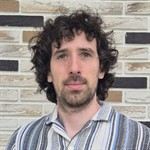
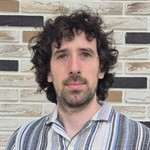
Reduce initial page load work
Use ResizeObserver for header offset updates and avoid repeated scroll class writes.

Delay non-critical neural canvas and analytics work further past initial render.

Recompress the default profile thumbnail.

diff --git a/assets/js/site.js b/assets/js/site.js
@@ -29,6 +29,9 @@
 
   let contactScrollFrame = 0;
   let resizeFrame = 0;
+  let headerHeight = 76;
+  let hasScrolled = false;
+  let scrollButtonVisible = false;
 
   function readPreference(key, fallback) {
     try {
@@ -138,15 +141,39 @@
     return designRootSupports(designRoot, root.getAttribute('data-style') || 'default');
   }
 
-  function setHeaderOffset() {
-    if (!header) return;
-    root.style.setProperty('--header-height', `${header.offsetHeight}px`);
+  function setHeaderHeight(height) {
+    const nextHeight = Math.ceil(height);
+    if (!nextHeight || nextHeight === headerHeight) return;
+    headerHeight = nextHeight;
+    root.style.setProperty('--header-height', `${headerHeight}px`);
   }
 
-  function scheduleHeaderOffset() {
+  function measureHeaderOffset() {
+    if (!header) return;
+    setHeaderHeight(header.getBoundingClientRect().height);
+  }
+
+  function initHeaderOffset() {
+    if (!header) return;
+
+    if ('ResizeObserver' in window) {
+      const observer = new ResizeObserver((entries) => {
+        const entry = entries[0];
+        const borderBox = entry && entry.borderBoxSize;
+        const size = Array.isArray(borderBox) ? borderBox[0] : borderBox;
+        const observedHeight = size && size.blockSize ? size.blockSize : entry.contentRect.height;
+        setHeaderHeight(observedHeight);
+      });
+      observer.observe(header);
+      return;
+    }
+
+    window.addEventListener('load', measureHeaderOffset, { once: true });
+  }
+
+  function scheduleContactScroll() {
     if (resizeFrame) return;
     resizeFrame = window.requestAnimationFrame(() => {
-      setHeaderOffset();
       scrollToContactHash('auto');
       resizeFrame = 0;
     });
@@ -166,8 +193,7 @@
     window.cancelAnimationFrame(contactScrollFrame);
     contactScrollFrame = window.requestAnimationFrame(() => {
       contactScrollFrame = window.requestAnimationFrame(() => {
-        const headerOffset = header ? header.offsetHeight : 0;
-        const targetTop = target.getBoundingClientRect().top + window.scrollY - headerOffset - 16;
+        const targetTop = target.getBoundingClientRect().top + window.scrollY - headerHeight - 16;
         window.scrollTo({
           top: Math.max(0, targetTop),
           behavior: reduceMotion ? 'auto' : (behavior || 'auto')
@@ -230,10 +256,19 @@
   }
 
   function handleScroll() {
-    body.classList.toggle('has-scrolled', window.scrollY > 18);
+    const scrollTop = window.scrollY || document.documentElement.scrollTop || 0;
+    const nextHasScrolled = scrollTop > 18;
+    if (nextHasScrolled !== hasScrolled) {
+      body.classList.toggle('has-scrolled', nextHasScrolled);
+      hasScrolled = nextHasScrolled;
+    }
 
     if (scrollButton) {
-      scrollButton.classList.toggle('is-visible', window.scrollY > 500);
+      const nextScrollButtonVisible = scrollTop > 500;
+      if (nextScrollButtonVisible !== scrollButtonVisible) {
+        scrollButton.classList.toggle('is-visible', nextScrollButtonVisible);
+        scrollButtonVisible = nextScrollButtonVisible;
+      }
     }
   }
 
@@ -445,7 +480,7 @@
     ticking = true;
   }, { passive: true });
 
-  window.addEventListener('resize', scheduleHeaderOffset);
+  window.addEventListener('resize', scheduleContactScroll);
   window.addEventListener('hashchange', () => scrollToContactHash(reduceMotion ? 'auto' : 'smooth'));
   window.addEventListener('load', () => scrollToContactHash('auto'));
   if (document.fonts && document.fonts.ready) {
@@ -456,7 +491,7 @@
   initScrollToTop();
   initCarousels();
   initReveals();
-  setHeaderOffset();
+  initHeaderOffset();
   handleScroll();
   scrollToContactHash('auto');
 })();

diff --git a/_layouts/default.html b/_layouts/default.html
@@ -251,11 +251,13 @@
           document.body.appendChild(script);
         }
         function scheduleNeuralCanvas() {
-          if ('requestIdleCallback' in window) {
-            window.requestIdleCallback(loadNeuralCanvas, { timeout: 1800 });
-          } else {
-            window.setTimeout(loadNeuralCanvas, 700);
-          }
+          window.setTimeout(function() {
+            if ('requestIdleCallback' in window) {
+              window.requestIdleCallback(loadNeuralCanvas, { timeout: 1500 });
+            } else {
+              loadNeuralCanvas();
+            }
+          }, 5200);
         }
         if (document.readyState === 'complete') {
           scheduleNeuralCanvas();
@@ -297,10 +299,10 @@
 
         function scheduleAnalytics() {
           var startDelay = function() {
-            window.setTimeout(loadAnalytics, 3200);
+            window.setTimeout(loadAnalytics, 8000);
           };
           if ('requestIdleCallback' in window) {
-            window.requestIdleCallback(startDelay, { timeout: 5000 });
+            window.requestIdleCallback(startDelay, { timeout: 9000 });
           } else {
             startDelay();
           }
